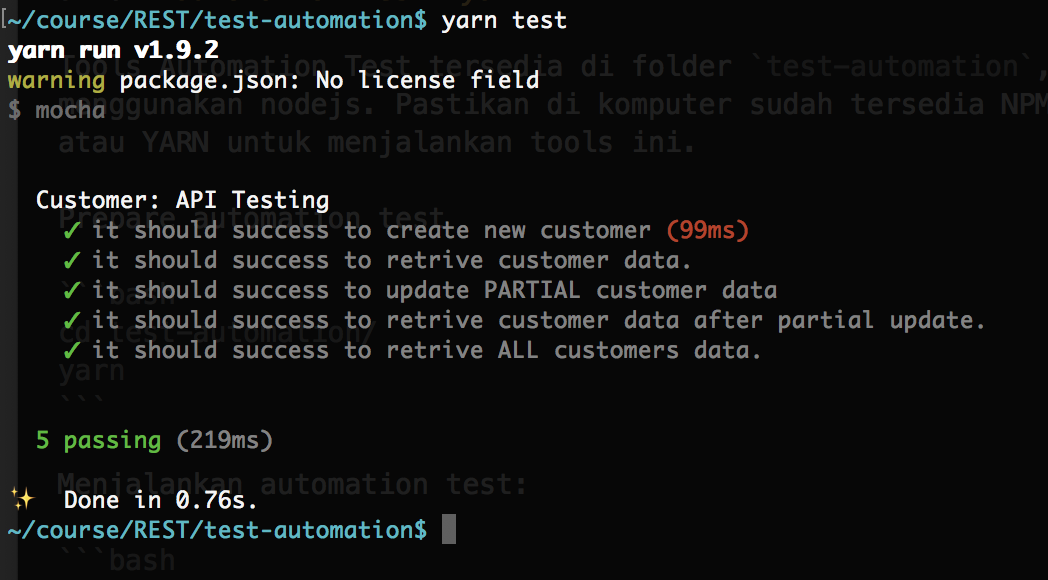
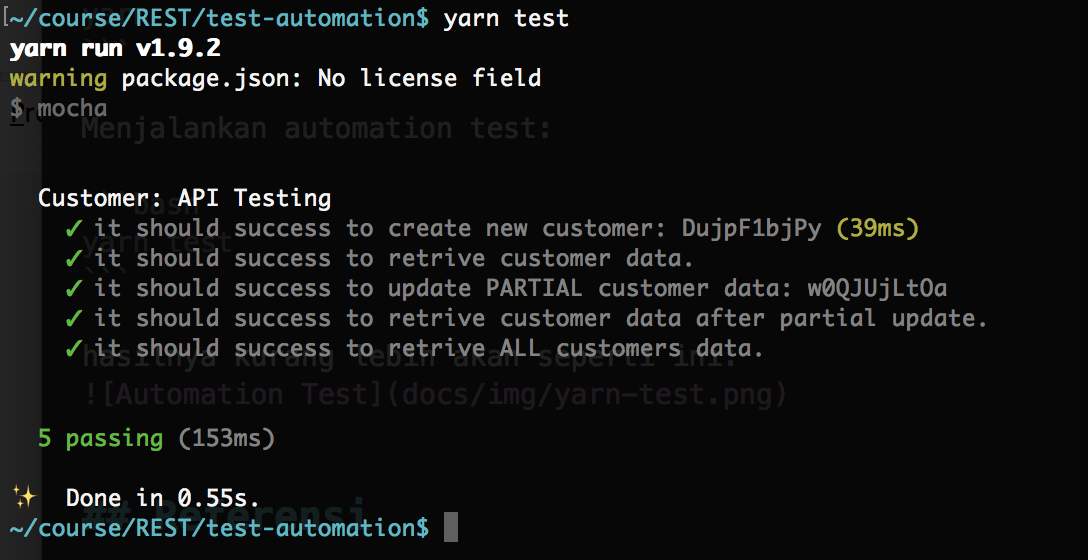
restructuring code

Changed region(s): [[0.0, 0.0, 0.9466, 1.0]]

diff --git a/test-automation/test/CustomerTest.js b/test-automation/test/CustomerTest.js
@@ -4,11 +4,10 @@ let chai = require('chai');
 let should = chai.should();
 let expect = chai.expect;
 let chaiHttp = require('chai-http');
+let randomstring = require("randomstring");
 chai.use(chaiHttp);
 
 let customerID = 0;
-let customerName = 'my name';
-let customerDescription = 'this is description.';
 
 let Config = require('./Config');
 environment = Config['environment'];
@@ -19,17 +18,17 @@ let BaseURL = config.baseURL;
 describe('Customer: API Testing', () => {
 
   let customerDetails = {
-    'name': customerName,
-    'description': customerDescription
+    'name': randomstring.generate(10),
+    'description': randomstring.generate({ length: 50, charset: 'alphabetic' })
   };
 
-  it('it should success to create new customer', (done) => {
+  it('it should success to create new customer: ' + customerDetails.name, (done) => {
     chai.request(BaseURL)
       .post('/')
       .set('Content-Type', 'application/x-www-form-urlencoded')
       .send(customerDetails)
       .end((err, res) => {
-        customerID = res.body.data.customer_id;
+        customerID = res.body.response.customer_id;
         done();
       });
   });
@@ -39,13 +38,14 @@ describe('Customer: API Testing', () => {
       .get('/?id=' + customerID)
       .end((err, res) => {
         expect(res.body.code).to.equal(200);
-        expect(res.body.data.name).to.equal(customerName.toUpperCase());
+        expect(res.body.response.data.name).to.equal(customerDetails.name.toUpperCase());
         done();
       });
   });
 
-  it('it should success to update PARTIAL customer data', (done) => {
-    customerDetails.name = 'replace';
+  customerDetails.name = randomstring.generate(10);
+  it('it should success to update PARTIAL customer data: ' + customerDetails.name, (done) => {
+    customerDetails.name = randomstring.generate(10);
     customerDetails.description = '';
     chai.request(BaseURL)
       .patch('/?id=' + customerID)
@@ -60,7 +60,7 @@ describe('Customer: API Testing', () => {
       .get('/?id=' + customerID)
       .end((err, res) => {
         expect(res.body.code).to.equal(200);
-        expect(res.body.data.name).to.equal('REPLACE');
+        expect(res.body.response.data.name).to.equal(customerDetails.name.toUpperCase());
         done();
       });
   });
@@ -73,9 +73,9 @@ describe('Customer: API Testing', () => {
         res.should.be.json;
         it('wow');
         expect(res.body.code).to.equal(200);
-        res.body.should.have.property('count');
-        res.body.should.have.property('data');
-        res.body.data.should.be.an('array');
+        res.body.response.should.have.property('count');
+        res.body.response.should.have.property('data');
+        res.body.response.data.should.be.an('array');
         done();
       });
     //done();

diff --git a/test-automation/test/Config.js b/test-automation/test/Config.js
@@ -7,7 +7,7 @@ let Config = {
     baseURL: 'https://your-url'
   },
   development: {
-    baseURL: 'localhost/api-test/customer'
+    baseURL: 'http://localhost/api-test/customer'
   }
 }
 
